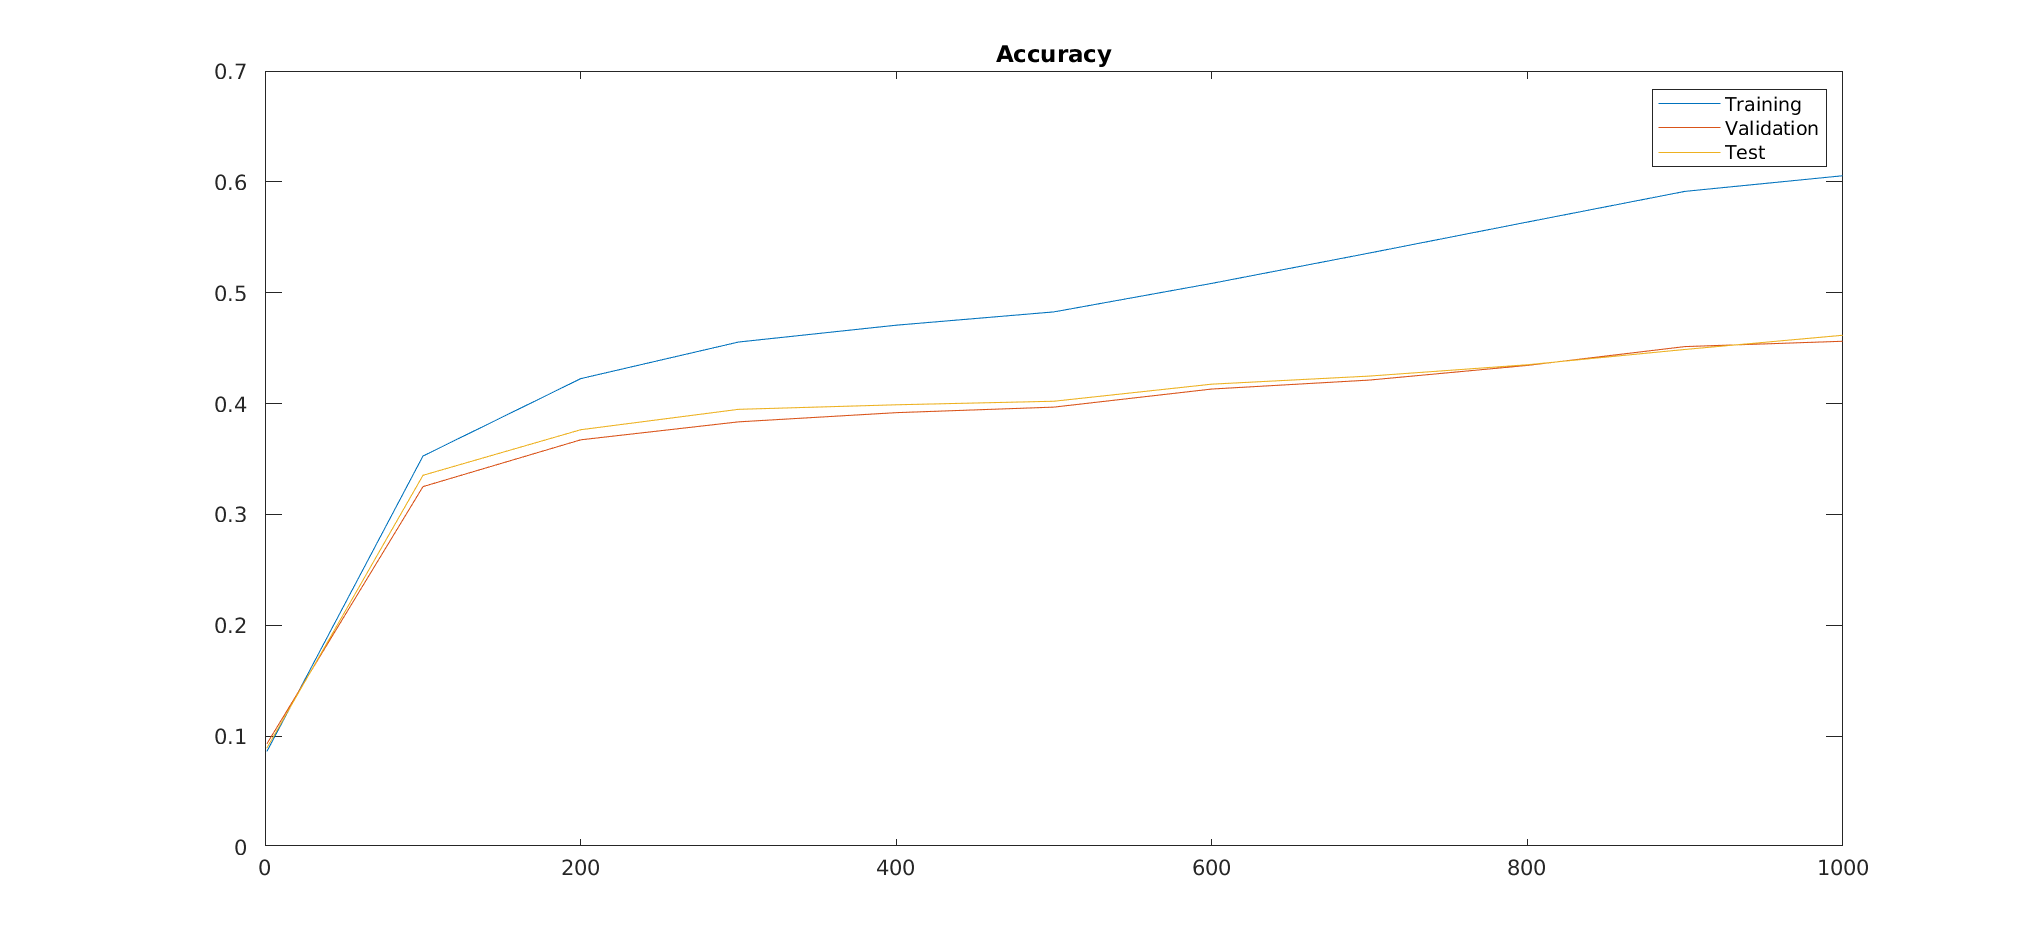
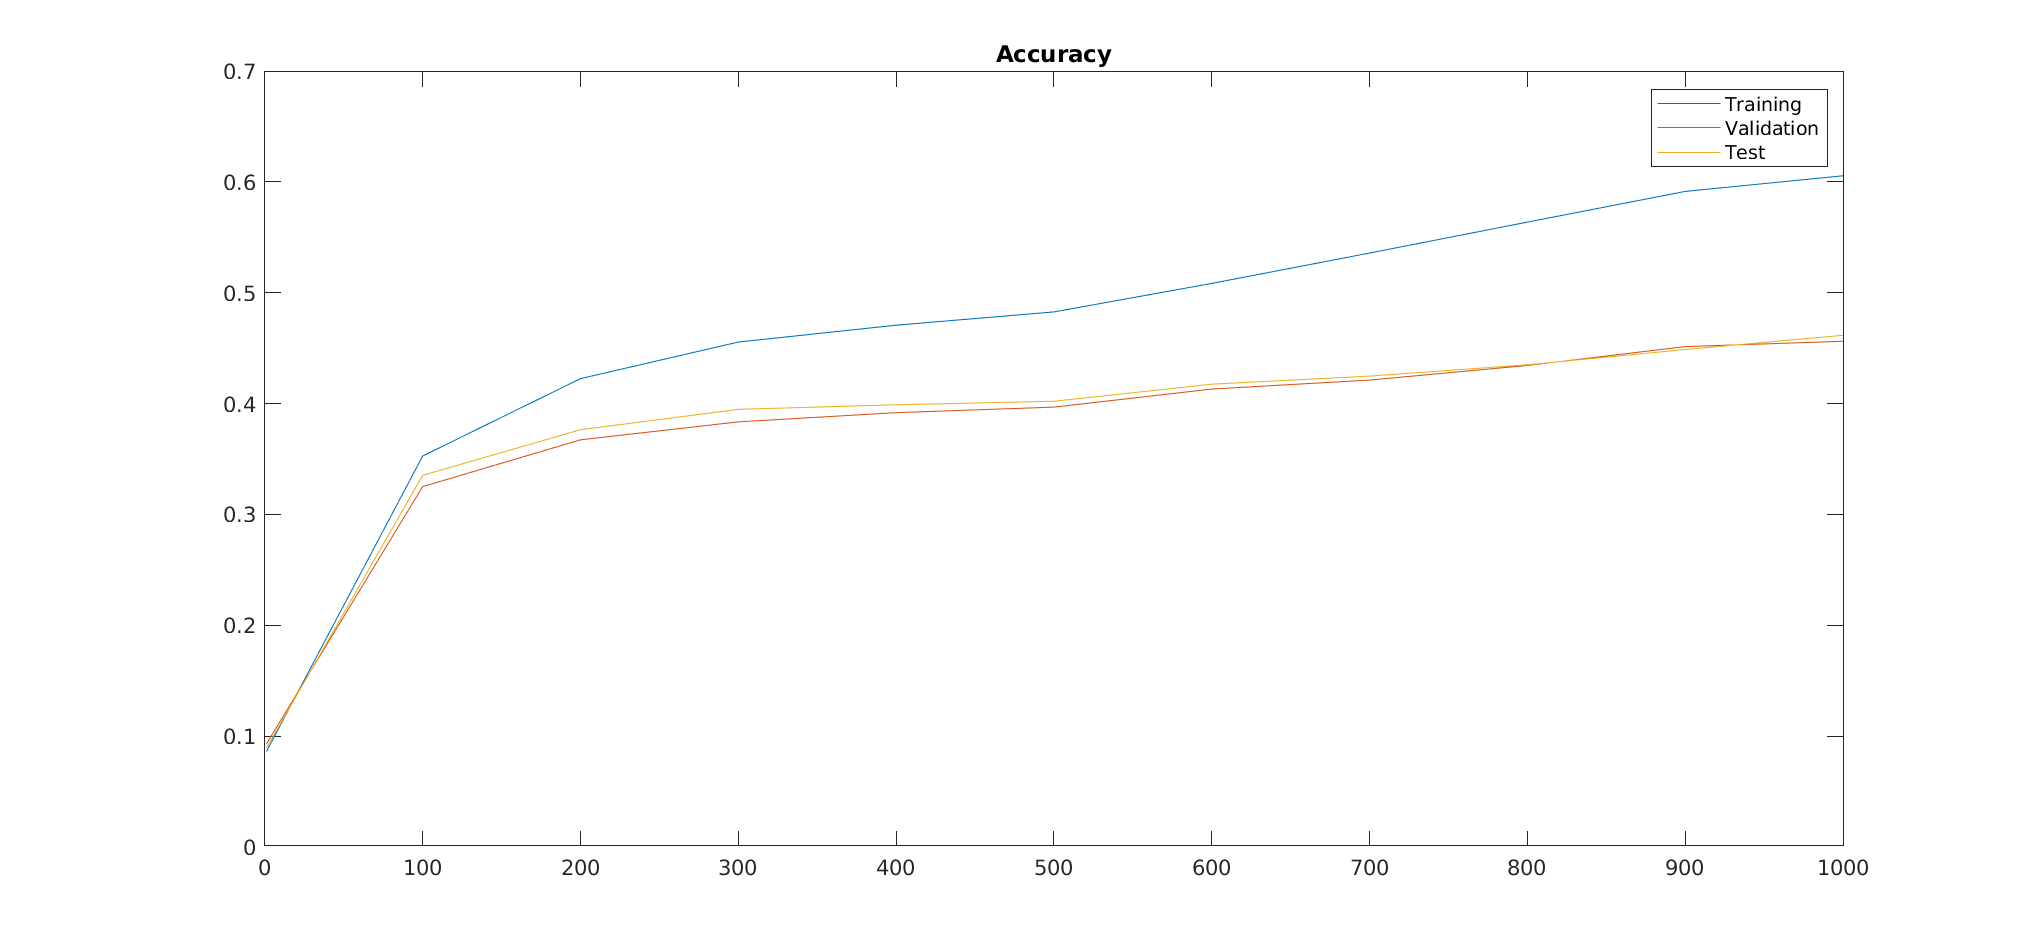
fix ex3

diff --git a/lab2/code/Assignment2.m b/lab2/code/Assignment2.m
@@ -36,13 +36,14 @@ cycles = 1;
 
 
 updates_per_cycle = 2*n_s;
-snapshot_step = updates_per_cycle/10;
+snapshots_per_cycle = 10;
+snapshot_step = updates_per_cycle/snapshots_per_cycle;
 
 % gd_params = GDparams(n_batch, eta, n_epochs);
 
 % fprintf('lambda=%0.5f\nn_batch=%d\neta=%0.5f\nn_epochs=%d\n', lambda, n_batch, eta, n_epochs);
 
-amount = 11;
+amount = (snapshots_per_cycle+1)*cycles;
 loss_training = zeros(amount, 1);
 loss_validation = zeros(amount, 1);
 
@@ -65,17 +66,18 @@ x_axis = zeros(amount, 1);
 
 % train
 disp('begin training')
+ex = 3;
 
-delete 'result_pics/values.csv';
-fid = fopen('result_pics/values.csv', 'a+');
-fprintf(fid, 'cycel;count;loss_training;loss_validation;cost_training;cost_validation;accuracy_training;accuracy_validation;accuracy_test\n');
+name = sprintf('result_pics/ex%d_values.csv', ex);
+delete(name);
+fid = fopen(name, 'a+');
+fprintf(fid, 'cycle;count;loss_training;loss_validation;cost_training;cost_validation;accuracy_training;accuracy_validation;accuracy_test\n');
 
 
-
+j = 1;
+count = 0;
 for l=0:cycles-1
-    fprintf('cycel %d of %d.\n',l+1,cycles);
-    count = 0;
-    j = 1;
+    fprintf('cycle %d of %d.\n',l+1,cycles);
     
     for t = 2*l*n_s:(2*l+1)*n_s-1
         j_start = (j-1)*n_batch + 1;
@@ -164,7 +166,7 @@ for l=0:cycles-1
             diff = abs(loss_training(index) - loss_validation(index));
             difference(index) = diff;
 
-            fprintf(fid, '%d;%d;%0.5f;%0.5f;%0.5f;%0.5f\n', l+1, x_axis(index), loss_training(index), loss_validation(index), difference(index), accuracy(index));
+            fprintf(fid, '%d;%d;%0.5f;%0.5f;%0.5f;%0.5f;%0.5f;%0.5f;%0.5f\n', l+1, x_axis(index), loss_training(index), loss_validation(index), cost_training(index), cost_validation(index), accuracy_training(index), accuracy_validation(index), accuracy_test(index));
         end
 
     end
@@ -177,7 +179,7 @@ figure(2);
 plot(x_axis, loss_training, x_axis, loss_validation);
 title('Loss')
 legend('Training', 'Validation')
-name = sprintf('result_pics/ex3_loss.png');
+name = sprintf('result_pics/ex%d_loss.png', ex);
 saveas(gcf,name);
 
  % evolution of the cost as diagram
@@ -185,7 +187,7 @@ figure(3);
 plot(x_axis, cost_training, x_axis, cost_validation);
 title('Cost')
 legend('Training', 'Validation')
-name = sprintf('result_pics/ex3_cost.png');
+name = sprintf('result_pics/ex%d_cost.png', ex);
 saveas(gcf,name);
 
 % evolution of the accuracy as diagram
@@ -193,7 +195,7 @@ figure(4);
 plot(x_axis, accuracy_training, x_axis, accuracy_validation, x_axis, accuracy_test);
 title('Accuracy')
 legend('Training', 'Validation','Test')
-name = sprintf('result_pics/ex3_accuracy.png');
+name = sprintf('result_pics/ex%d_accuracy.png', ex);
 saveas(gcf,name);
 
 % evolution of the difference as diagram
